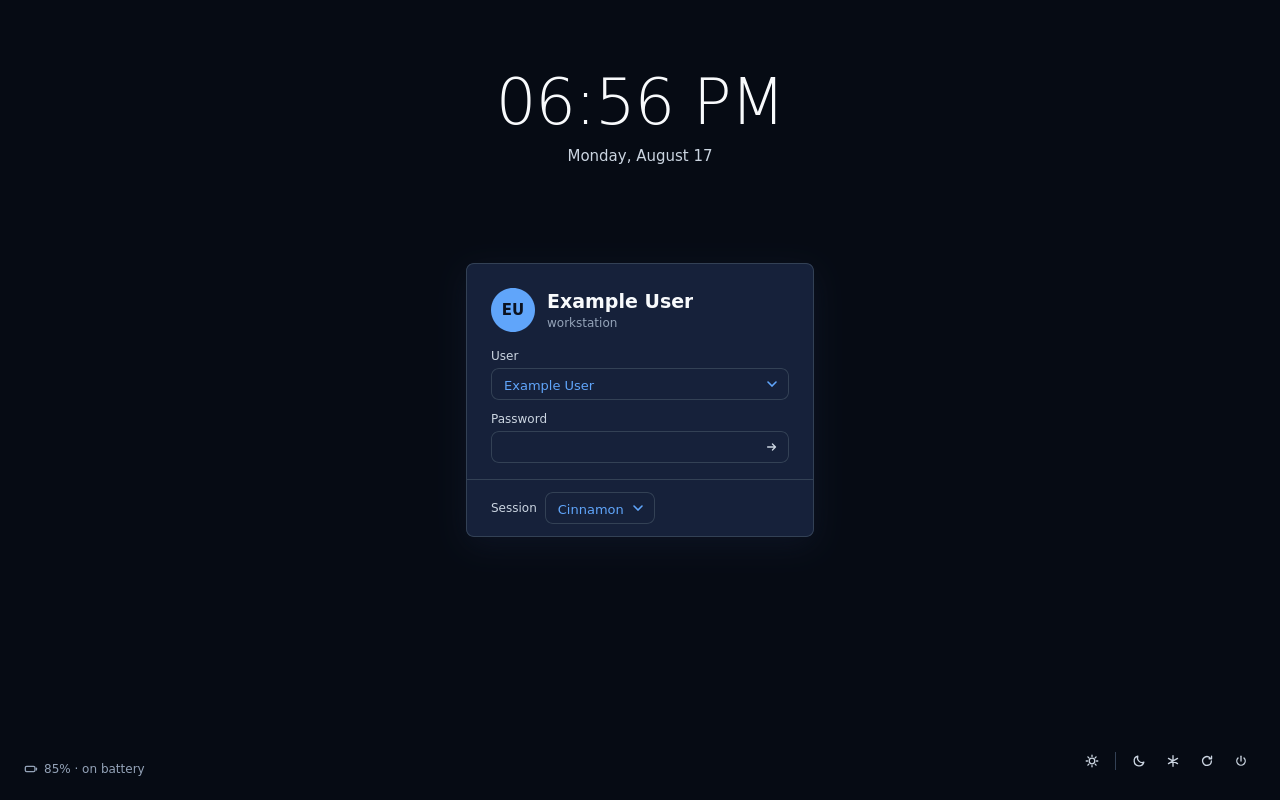
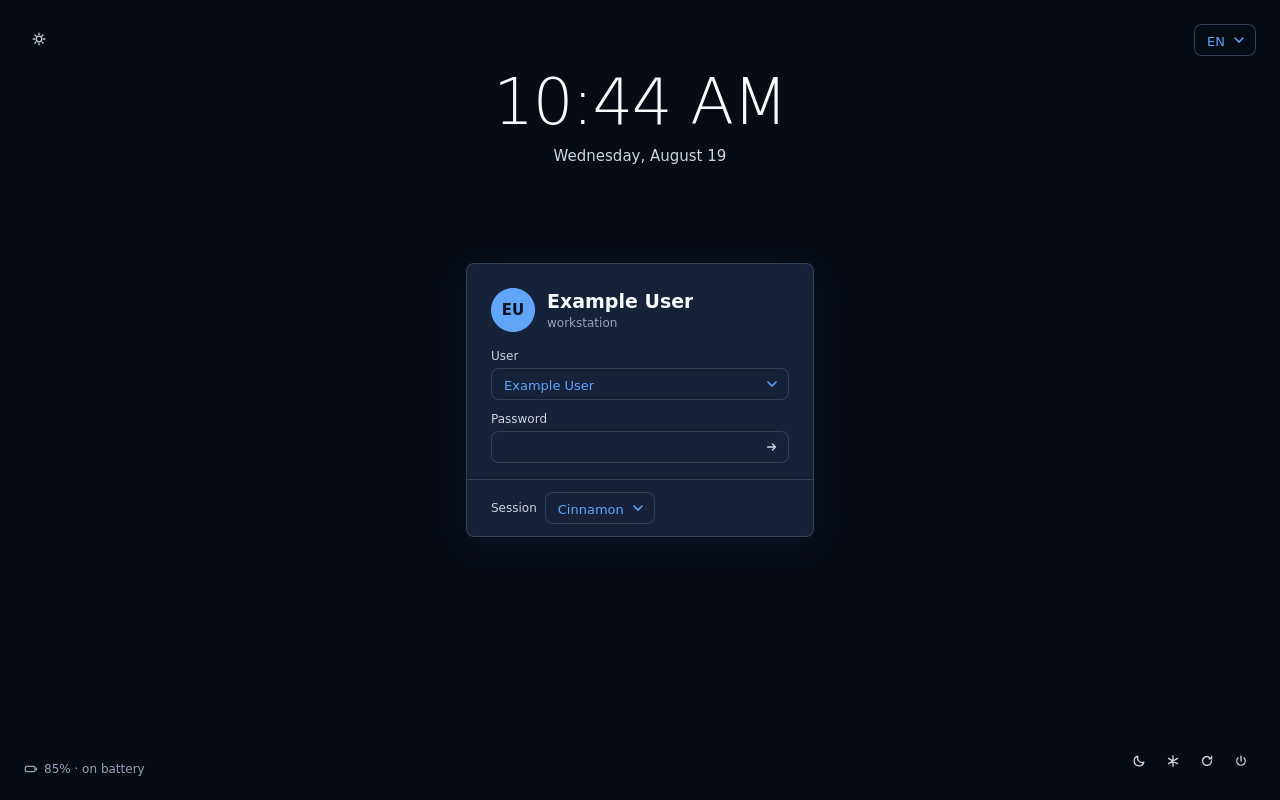
feat(lightdm): add a language select and move the preferences to the top corners

diff --git a/lightdm/greeter.js b/lightdm/greeter.js
@@ -14,6 +14,7 @@ const entryLabel = $("#entry-label");
 const message = $("#message");
 const userSelect = $("#user-select");
 const sessionSelect = $("#session-select");
+const languageSelect = $("#language-select");
 
 const state = (name) => html.setAttribute("data-state", name);
 
@@ -90,6 +91,7 @@ function showUser(user) {
     /* A user's own session wins over the seat default, matching what LightDM
        would have started for them last time. */
     if (user && user.session) selectOption(sessionSelect, user.session);
+    if (user && user.language) selectOption(languageSelect, user.language);
 }
 
 function selectOption(select, value) {
@@ -101,8 +103,22 @@ function fillSessions(lightdm) {
         sessionSelect.add(new Option(session.name, session.key));
     }
     selectOption(sessionSelect, lightdm.default_session);
-    /* One session is not a choice, so the control would only be noise. */
-    if (lightdm.sessions.length < 2) sessionSelect.parentElement.hidden = true;
+    /* One session is not a choice, so the footer would only be a bare hairline. */
+    if (lightdm.sessions.length < 2) $(".card-footer").hidden = true;
+}
+
+/* The bare language subtag, since a corner control has no room for
+   "English (United States)" and the value keeps the full code regardless. */
+const languageLabel = (code) => code.split(/[_.@]/)[0].toUpperCase();
+
+function fillLanguages(lightdm) {
+    const languages = lightdm.languages || [];
+    for (const language of languages) {
+        languageSelect.add(new Option(languageLabel(language.code), language.code));
+    }
+    selectOption(languageSelect, (lightdm.language || {}).code);
+    /* One language is not a choice, so the control would only be noise. */
+    if (languages.length < 2) languageSelect.hidden = true;
 }
 
 function fillUsers(lightdm) {
@@ -185,6 +201,10 @@ function setupAuthentication(lightdm) {
             return;
         }
 
+        /* LightDM only accepts a language once it has authenticated, so the
+           choice is applied here rather than when the select changes. */
+        if (languageSelect.value) lightdm.set_language(languageSelect.value);
+
         /* Fade the greeter out before handing the seat over, so the screen does
            not flash between the login card and the session's first frame. */
         state("starting");
@@ -216,6 +236,7 @@ window.addEventListener("GreeterReady", () => {
     $("#hostname").textContent = lightdm.hostname || "";
 
     fillSessions(lightdm);
+    fillLanguages(lightdm);
     fillUsers(lightdm);
     setupPower(lightdm);
     setupBattery(lightdm);

diff --git a/lightdm/index.html b/lightdm/index.html
@@ -22,6 +22,18 @@
 
 <main class="greeter">
 
+    <!-- Preferences take the top corners, so a colour scheme or a locale is
+         never a neighbour of the shutdown button. -->
+    <div class="actions actions-top actions-start">
+        <button class="icon-button" id="scheme-toggle" type="button" aria-label="Switch colour scheme">
+            <svg class="icon" aria-hidden="true"><use href="#icon-scheme"></use></svg>
+        </button>
+    </div>
+
+    <div class="actions actions-top">
+        <select class="select" id="language-select" aria-label="Language"></select>
+    </div>
+
     <!-- The clock is the only thing on screen before the card, so it carries
          the h1 step of the type scale. -->
     <header class="clock">
@@ -76,10 +88,6 @@
     </div>
 
     <div class="actions">
-        <button class="icon-button" id="scheme-toggle" type="button" aria-label="Switch colour scheme">
-            <svg class="icon" aria-hidden="true"><use href="#icon-scheme"></use></svg>
-        </button>
-        <span class="actions-separator" aria-hidden="true"></span>
         <button class="icon-button" data-power="suspend" type="button" aria-label="Suspend" hidden>
             <svg class="icon" aria-hidden="true"><use href="#icon-suspend"></use></svg>
         </button>

diff --git a/lightdm/preview/mock.js b/lightdm/preview/mock.js
@@ -43,6 +43,13 @@
             { username: "guest", display_name: "Guest", session: "gnome", image: "" },
         ],
 
+        language: { code: "en_US", name: "English", territory: "United States" },
+
+        languages: [
+            { code: "en_US", name: "English", territory: "United States" },
+            { code: "fr_FR", name: "French", territory: "France" },
+        ],
+
         show_prompt: signal(),
         show_message: signal(),
         authentication_complete: signal(),
@@ -66,6 +73,7 @@
             }, 700);
         },
 
+        set_language: (language) => console.log("set_language", language),
         start_session: (session) => console.log("start_session", session),
         suspend: () => console.log("suspend"),
         hibernate: () => console.log("hibernate"),

diff --git a/lightdm/style.css b/lightdm/style.css
@@ -94,6 +94,18 @@ body {
     gap: var(--space-2);
 }
 
+/* The preferences clusters share the bottom row's geometry, at the top corners. */
+.actions-top {
+    top: var(--space-7);
+    bottom: auto;
+    gap: var(--space-3);
+}
+
+.actions-start {
+    left: var(--space-7);
+    right: auto;
+}
+
 .actions-separator {
     width: var(--border-width);
     height: 18px;
